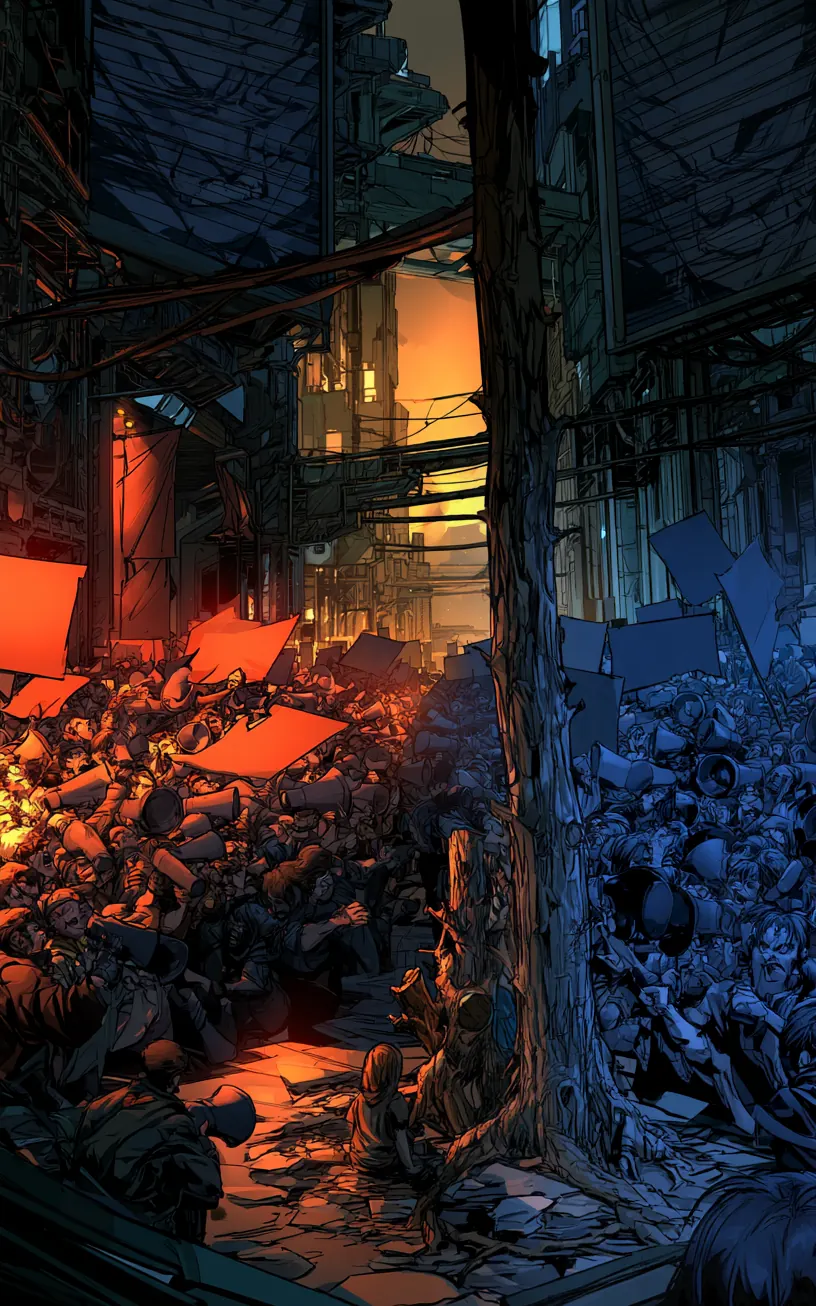
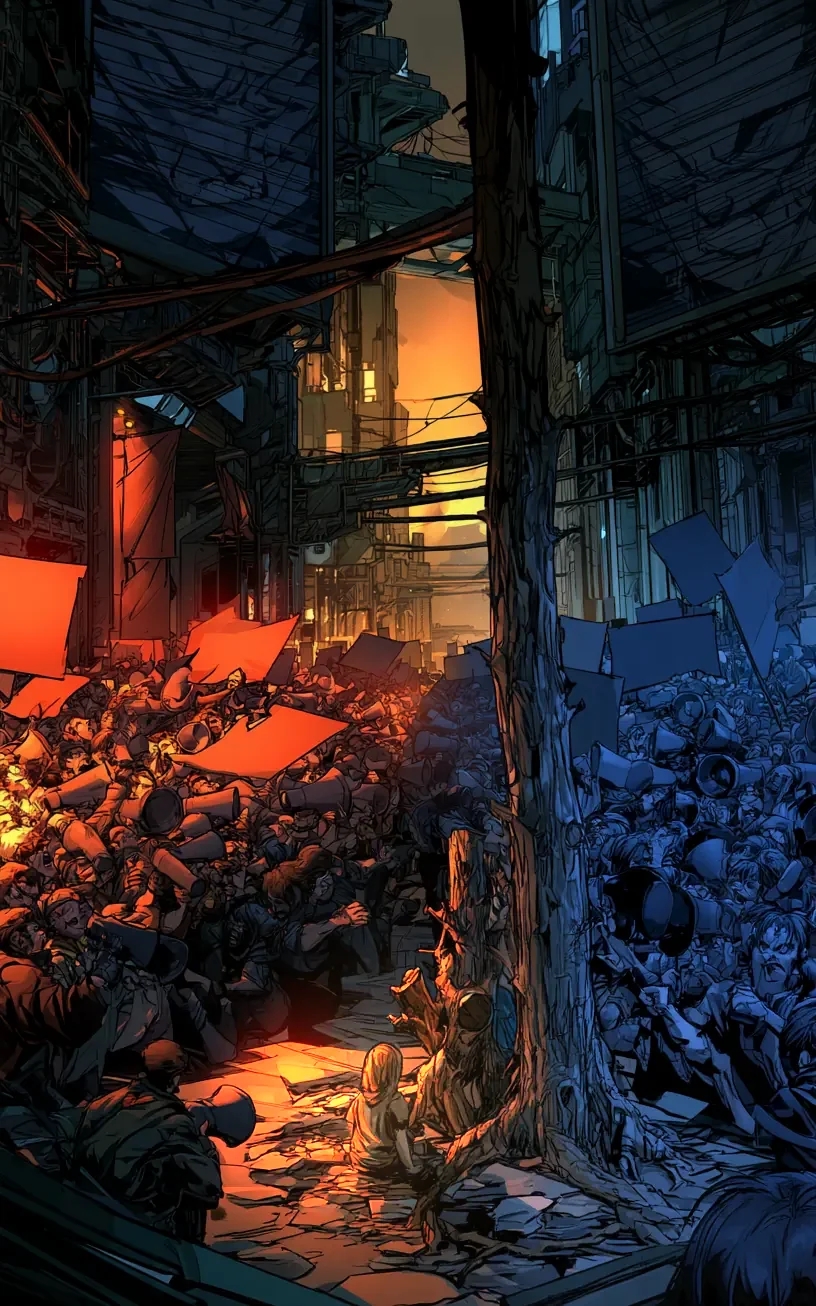
Intro : audit et réécriture (cohérence, lisibilité, profondeur)
- 12 plans au lieu de 11 : la Fonte et la Fracture sont séparées, les Accords
  rejoignent « On a oublié, encore ».
- Textes réécrits depuis la Bible et les Chroniques d'Ysé : dates alignées
  (Fonte 2030-2055, Montée 2057-2085), l'empreinte enfin définie, le Graveur,
  la Strate zéro nommée, plus de « Chaque trouvaille devient une carte ».
- Fils rouges : la ligne bleue sur les murs, les vingt secondes entre la météo
  et le sport, le regard, la porte.
- Une phrase à la fois, avec des points de progression ; texte en haut ou en
  bas selon le sujet de l'illustration ; voile adapté.
- Caméra : « monte » et « descend » étaient inversés ; le zoom se fait autour
  du sujet (foyer).
- 02-ailleurs : l'enfant au centre de l'image est éclairé.
- Typographie française (espaces insécables).

Claude-Session: https://claude.ai/code/session_01V7BnmMnJ7BohrTqfAHykg1

Changed region(s): [[0.2145, 0.7044, 0.674, 1.0], [0.4289, 0.6738, 0.4596, 0.7044]]

diff --git a/src/ui/intro.ts b/src/ui/intro.ts
@@ -1,7 +1,10 @@
-// L'intro du premier lancement : 10 plans, on avance au toucher (aucune avance automatique).
-// Chaque plan = une scène animée en code (SVG + CSS) et 2 ou 3 phrases courtes qui apparaissent une à une.
-// Les illustrations Midjourney passent sous le texte ; tant qu'un plan n'a pas d'image, sa scène SVG la remplace.
-// Aucun pays, personne ni conflit réel n'est nommé.
+// L'intro du premier lancement : 12 plans, on avance au toucher (aucune avance automatique).
+// Chaque plan = une illustration (ou une scène animée en code tant qu'elle manque) et 2 à 4 phrases,
+// affichées une à la fois, comme des sous-titres, pour laisser voir l'image.
+// Le texte se place en haut ou en bas selon l'endroit où se trouve le sujet de l'illustration.
+// Fils rouges : la ligne bleue peinte sur les murs (plans 1 et 10), les « vingt secondes entre la météo
+// et le sport » (plans 2 et 10), le regard (on a regardé ailleurs… regarde tout), la porte (plans 4 et 12).
+// Aucun pays, personne ni conflit réel n'est nommé. Source : Bible du lore et Chroniques d'Ysé.
 
 import { echap } from './vue';
 
@@ -9,12 +12,18 @@ export interface Plan {
   epoque: string;
   titre: string;
   lignes: string[];
+  /** années du compteur : il défile de la première à la seconde */
+  annees: [number, number];
   scene: (k: number) => string;
   /** illustrations Midjourney du plan (public/intro/<id>.webp), chacune visible à partir de la ligne « des » (1 = début) */
   fonds?: { id: string; des: number }[];
   ambiance: string;
   /** mouvement de caméra sur l'illustration */
   camera: 'approche' | 'monte' | 'descend' | 'gauche' | 'droite' | 'recule';
+  /** où poser le texte pour ne pas cacher le sujet de l'illustration (bas par défaut) */
+  texte?: 'haut' | 'bas';
+  /** position du sujet dans l'illustration, en % (x, y) : la caméra zoome autour de lui */
+  foyer?: [number, number];
 }
 
 const svg = (contenu: string, cls = '') =>
@@ -100,51 +109,63 @@ const strates = (k: number) => svg(`
   <g transform="translate(40 225)"><rect width="34" height="50" rx="8" fill="#2F4A2E" stroke="#8FAF6A" stroke-width="2"/><rect x="6" y="18" width="22" height="26" rx="5" fill="#8FAF6A" opacity=".55" class="pulse-lent"/></g>
   ${k >= 3 ? `<g class="arrivee" style="--i:0"><rect x="150" y="190" width="60" height="84" rx="7" fill="#1C1F26" stroke="#E8C25A" stroke-width="3"/><path d="M180 212 L192 232 L180 252 L168 232 Z" fill="#B9A6FF"/></g>` : ''}`);
 
-// ---------- Les 11 plans ----------
+// ---------- Les 12 plans ----------
 
 const f = (id: string, des = 1) => ({ id, des });
 
 export const PLANS: Plan[] = [
-  { epoque: 'Les années 2000', titre: 'On savait', ambiance: 'chaleur', camera: 'approche', fonds: [f('01-on-savait')], scene: villeChaleur, lignes: [
-    'Au début du siècle, un documentaire fait le tour du monde : les glaciers reculent, les étés brûlent.',
-    'On le sait, on s’inquiète. Il y a des marches, des sommets, des promesses.'] },
-  { epoque: 'Aujourd’hui', titre: 'On a regardé ailleurs', ambiance: 'colere', camera: 'recule', fonds: [f('02-ailleurs')], scene: ecrans, lignes: [
-    'Les prix montent, la colère aussi. L’extrême gauche et l’extrême droite se dressent l’une contre l’autre, chacune crie plus fort.',
-    'Des guerres s’embrasent. Le climat devient une ligne en bas de page.'] },
-  { epoque: 'Les années 2040 à 2057', titre: 'La nature a frappé', ambiance: 'maree', camera: 'gauche', fonds: [f('03-tempetes'), f('03-fracture', 3)], scene: nature, lignes: [
-    'Les tempêtes rendent des côtes entières inhabitables.',
-    'Des centaines de millions de personnes prennent la route. On meurt par millions.',
-    'En 2057, une partie de l’Antarctique glisse dans l’océan : la Fracture.'] },
-  { epoque: 'Après la Fracture', titre: 'Construire en hauteur', ambiance: 'aube-doree', camera: 'monte', fonds: [f('04-hauteur')], scene: tours, lignes: [
-    'La mer monte de plusieurs mètres. On bâtit vers le ciel, sur des piliers.',
-    'Les premières villes verticales sortent de l’eau. Elles grandiront pendant des décennies ; la plus grande s’appellera Vertiga.'] },
-  { epoque: '2062', titre: 'Le Puits Zéro', ambiance: 'profondeur', camera: 'descend', fonds: [f('05-puits-zero')], scene: puits, lignes: [
-    'Il faut aussi des abris. On creuse sous les Fondations.',
-    'Au fond du Puits Zéro : une salle que nul humain n’a construite.'] },
-  { epoque: '2062 – 2068', titre: 'Les empreintes', ambiance: 'cristal', camera: 'approche', fonds: [f('06-empreintes')], scene: empreintes, lignes: [
-    'Ses cristaux gardent des êtres plus anciens que nous : dragons, esprits, sans-nom.',
-    'Greffés sur un humain, ils éveillent des pouvoirs qu’aucune science n’explique.'] },
-  { epoque: '2071 – 2090', titre: 'L’Ascension', ambiance: 'or', camera: 'monte', fonds: [f('07-ascension')], scene: ascension, lignes: [
-    'En 2071, sept volontaires reçoivent en secret les premières empreintes. Ils sentent venir les tempêtes bien avant les machines.',
-    'Certains sauvent des villes entières, d’autres les prennent par la force. Mèche d’or, ombre qui n’est pas la leur : en vingt ans, les Résonants dirigent le monde.',
-    'Leurs familles s’installent dans les Hauts, sur des îles qui flottent.'] },
-  { epoque: '2088 – 2101', titre: 'La réponse', ambiance: 'atelier', camera: 'droite', fonds: [f('08-reponse')], scene: lignees, lignes: [
-    'Le peuple répond : la machine donne les Augmentés, la génétique les Génés.',
-    'En 2101, les Accords : les Hauts gouvernent, les districts élisent leurs directeurs.'] },
-  { epoque: '2121', titre: 'On a oublié, encore', ambiance: 'nuit', camera: 'recule', fonds: [f('09-oubli')], scene: oubli, lignes: [
-    'Les factions se disputent les empreintes. Les Fondations se fissurent.',
-    'La mer remonte, centimètre après centimètre. Presque personne ne regarde.'] },
-  { epoque: '2121', titre: 'Ce qui dort en dessous', ambiance: 'profondeur', camera: 'descend', fonds: [f('10-dessous')], scene: strates, lignes: [
-    'Sous chaque district, les chantiers des années 2060 ont laissé des Strates à l’abandon.',
-    'Cristaux d’empreinte, modules d’Augmentés, greffes de Génés : tout ce qu’on y trouve est unique.',
-    'Chaque trouvaille devient une carte. Qui en réunit assez devient fort.'] },
-  { epoque: '2121', titre: 'Toi', ambiance: 'foyer', camera: 'approche', fonds: [f('10-toi')], scene: toi, lignes: [
-    'Tu viens d’être élu à la tête d’un district : quelques piliers, une vieille tour.',
-    'Sous elle, une porte scellée depuis soixante ans. Trois personnes t’attendent.'] },
+  { epoque: 'Au début du siècle', titre: 'On savait', annees: [2006, 2019], ambiance: 'chaleur', camera: 'approche', fonds: [f('01-on-savait')], scene: villeChaleur, lignes: [
+    'Un soir, un documentaire fait le tour du monde : des glaciers photographiés à trente ans d’écart, qui ont reculé comme une marée.',
+    'Les savants ont les chiffres, les cartes, presque les dates. Des millions de jeunes marchent. Il y a des sommets, des promesses.',
+    'Quand l’eau monte pour la première fois, on peint une ligne bleue sur le mur, là où elle s’est arrêtée. On la montre aux invités.'] },
+  { epoque: 'Aujourd’hui', titre: 'On a regardé ailleurs', annees: [2020, 2026], ambiance: 'colere', camera: 'recule', texte: 'haut', foyer: [47, 84], fonds: [f('02-ailleurs')], scene: ecrans, lignes: [
+    'Les prix montent : le pain, le loyer, le chauffage. Quand on compte ses pièces, un glacier qu’on ne verra jamais pèse peu.',
+    'La colère cherche des visages. À l’extrême gauche comme à l’extrême droite, chacun crie plus fort que l’autre.',
+    'Des guerres reviennent remplir les écrans. Le climat glisse en fin de journal, vingt secondes entre la météo et le sport.',
+    'Entre les deux foules, un enfant. Personne ne le regarde : c’est lui qui vivra la suite.'] },
+  { epoque: 'Un quart de siècle', titre: 'La Fonte', annees: [2030, 2055], ambiance: 'maree', camera: 'gauche', fonds: [f('03-tempetes')], scene: (k) => nature(Math.min(k, 2)), lignes: [
+    'La mer ne monte que de trente centimètres. Mais un soir de tempête, c’est une digue qui cède, une rue qui devient rivière.',
+    'Les côtes se vident, rue après rue. Des centaines de millions de gens prennent la route avec ce qu’ils peuvent porter.',
+    'Il y aura des morts par millions. Les querelles qui remplissaient les écrans paraissent soudain minuscules. Elles l’étaient.'] },
+  { epoque: 'Un matin', titre: 'La Fracture', annees: [2057, 2057], ambiance: 'fracture', camera: 'descend', texte: 'haut', fonds: [f('03-fracture')], scene: () => nature(3), lignes: [
+    'À six heures, toutes les radios se taisent au milieu d’une phrase.',
+    'Au bout du monde, une partie de l’Antarctique se détache d’un bloc, comme une porte arrachée. Un marin la regarde glisser.',
+    'La mer montera de plusieurs mètres en quelques décennies. Depuis, on dit « avant » et « après la Fracture ».'] },
+  { epoque: 'Après la Fracture', titre: 'La Montée', annees: [2057, 2085], ambiance: 'aube-doree', camera: 'monte', fonds: [f('04-hauteur')], scene: tours, lignes: [
+    'Quand on ne peut plus fuir sur les côtés, il reste deux directions. On commence par monter.',
+    'Des tours de secours poussent sur des piliers plantés dans l’eau. On vit aux étages finis pendant qu’on coule ceux du dessus.',
+    'Des passerelles les relient. En une génération, les tours se touchent, se mêlent, et deviennent une ville : Vertiga.'] },
+  { epoque: 'Sous les piliers', titre: 'Le Puits Zéro', annees: [2062, 2062], ambiance: 'profondeur', camera: 'descend', texte: 'haut', fonds: [f('05-puits-zero')], scene: puits, lignes: [
+    'Puis on creuse : il faut des abris contre les tempêtes, et on ne peut les mettre qu’en bas, sous les piliers des Fondations.',
+    'Un soir, une foreuse débouche dans une salle aux murs lisses et courbes. Rien n’y est à la taille d’un humain.',
+    '« Ça sentait comme une pièce d’où quelqu’un vient de sortir », dira un ouvrier. On l’appelle la Strate zéro. Il y en a d’autres.'] },
+  { epoque: 'Six ans d’études', titre: 'Les empreintes', annees: [2062, 2068], ambiance: 'cristal', camera: 'approche', fonds: [f('06-empreintes')], scene: empreintes, lignes: [
+    'Dans les murs, des cristaux. Chacun garde l’empreinte d’un être : ses gestes, sa force, une part de ce qu’il était.',
+    'En 2068, on apprend à graver nos propres empreintes et à les greffer. Le geste d’un vieux soudeur survit dans d’autres mains.',
+    'Mais les cristaux des Strates sont déjà habités. Par des êtres plus anciens que nous : dragons, esprits, sans-nom.'] },
+  { epoque: 'Vingt ans', titre: 'L’Ascension', annees: [2071, 2090], ambiance: 'or', camera: 'monte', fonds: [f('07-ascension')], scene: ascension, lignes: [
+    'En 2071, sept volontaires reçoivent en secret des empreintes anciennes. Une mèche d’or leur pousse en une nuit. Leur ombre change.',
+    'Ils sentent les tempêtes venir avant les machines : ce sont les Résonants. Certains sauvent des villes, d’autres les prennent.',
+    'Leurs familles s’installent dans les Hauts, des îles qui flottent au-dessus des nuages. Personne en bas ne sait comment.'] },
+  { epoque: 'Pendant ce temps, en bas', titre: 'La Réponse', annees: [2088, 2100], ambiance: 'atelier', camera: 'droite', fonds: [f('08-reponse')], scene: lignees, lignes: [
+    'Les empreintes anciennes sont rares, et les Hauts gardent les meilleures. Alors le reste de l’humanité se refait autrement.',
+    'La machine donne les Augmentés. Leurs premiers implants à cœur de cristal servent à une chose : brouiller les Résonants.',
+    'La génétique donne les Génés, qui empruntent au vivant ce qui résiste à l’eau et au noir. Trois lignées, nées de la même peur.'] },
+  { epoque: 'Vingt ans de calme', titre: 'On a oublié, encore', annees: [2101, 2121], ambiance: 'nuit', camera: 'recule', texte: 'haut', fonds: [f('09-oubli')], scene: oubli, lignes: [
+    'En 2101, les Accords mettent fin à dix ans de grèves : les Hauts gouvernent, les districts élisent leurs directeurs.',
+    'Une question reste « à préciser » : à qui appartient ce qui dort sous les piliers ? Les factions se la disputent encore.',
+    'Pendant ce temps, les Fondations se fissurent. La mer remonte, et les lignes bleues des vieux murs passent sous la marée.',
+    'On se dispute ce qu’on a déterré, et on oublie ce qui monte. Vingt secondes entre la météo et le sport. Comme avant.'] },
+  { epoque: 'Vertiga', titre: 'Ce qui dort en dessous', annees: [2121, 2121], ambiance: 'profondeur', camera: 'descend', texte: 'haut', fonds: [f('10-dessous')], scene: strates, lignes: [
+    'Sous chaque district, il y a d’abord les abris murés des années 2060. Plus bas, les Strates, toujours plus anciennes.',
+    'On en remonte des cristaux d’empreinte, des pièces d’Augmentés, des greffes de Génés. Chacune peut armer quelqu’un.',
+    'Plus on descend, plus les trouvailles sont puissantes, et plus il est difficile d’en remonter.'] },
+  { epoque: 'Ce matin', titre: 'Toi', annees: [2121, 2121], ambiance: 'foyer', camera: 'approche', texte: 'haut', foyer: [62, 80], fonds: [f('10-toi')], scene: toi, lignes: [
+    'Hier, ton district t’a élu à sa tête : quelques piliers reliés par des passerelles, une Forge au ralenti, une vieille tour.',
+    'Ce matin, sous la tour, on a ouvert une porte scellée depuis soixante ans. Derrière, des dizaines d’empreintes, mêlées.',
+    'Au même moment, dans les Hauts, des Résonants se réveillent sans savoir qui ils sont. Tout Vertiga va vouloir cette porte.',
+    'Une coursière, un ancien des Fondations et une lectrice d’empreintes t’attendent en bas. Descends. Regarde tout.'] },
 ];
-
-/** Années affichées par le compteur de chaque plan (de, à) */
-const ANNEES: [number, number][] = [[2006, 2019], [2020, 2026], [2040, 2057], [2057, 2062], [2062, 2062], [2062, 2068], [2071, 2090], [2090, 2101], [2121, 2121], [2121, 2121], [2121, 2121]];
 
 /** Illustrations Midjourney déjà déposées dans public/intro/ */
 export const IMAGES_DISPONIBLES = new Set<string>(['01-on-savait', '02-ailleurs', '03-tempetes', '03-fracture', '04-hauteur', '05-puits-zero', '06-empreintes', '07-ascension', '08-reponse', '09-oubli', '10-dessous', '10-toi']);
@@ -162,12 +183,13 @@ export function fondActif(i: number, k: number): string | null {
 export const imagesPlan = (i: number): string[] =>
   (PLANS[i]?.fonds ?? []).filter((x) => IMAGES_DISPONIBLES.has(x.id)).map((x) => `./intro/${x.id}.webp`);
 
-function fond(id: string, camera: string, mouvement: boolean): string {
+function fond(id: string, camera: string, mouvement: boolean, foyer?: [number, number]): string {
   const src = `./intro/${id}.webp`;
   const media = mouvement && VIDEOS_DISPONIBLES.has(id)
     ? `<video poster="${src}" autoplay muted loop playsinline preload="auto"><source src="./intro/${id}.webm" type="video/webm"><source src="./intro/${id}.mp4" type="video/mp4"></video>`
     : `<img src="${src}" alt="" decoding="async">`;
-  return `<div class="intro-fond cam-${camera}" data-fond="${id}" aria-hidden="true">${media}</div>`;
+  const style = foyer ? ` style="--fx:${foyer[0]}%;--fy:${foyer[1]}%"` : '';
+  return `<div class="intro-fond cam-${camera}" data-fond="${id}"${style} aria-hidden="true">${media}</div>`;
 }
 
 // ---------- Particules par ambiance (CSS seul, position et rythme déterministes) ----------
@@ -176,7 +198,11 @@ const PARTICULES: Record<string, { type: string; n: number }> = {
   chaleur: { type: 'poussiere', n: 18 }, colere: { type: 'cendre', n: 22 }, maree: { type: 'pluie', n: 46 },
   'aube-doree': { type: 'poussiere', n: 16 }, profondeur: { type: 'gravats', n: 20 }, cristal: { type: 'motes', n: 24 },
   or: { type: 'motes', n: 20 }, atelier: { type: 'etincelle', n: 18 }, nuit: { type: 'neige-lumiere', n: 16 }, foyer: { type: 'poussiere', n: 14 },
+  fracture: { type: 'neige-lumiere', n: 20 },
 };
+
+/** Typographie française : espace insécable avant « : » et « » », fine insécable avant ; ? !, insécable après « */
+const fr = (t: string) => t.replace(/ ([:»])/g, '\u00A0$1').replace(/ ([;?!])/g, '\u202F$1').replace(/« /g, '«\u00A0');
 
 export function particules(ambiance: string): string {
   const def = PARTICULES[ambiance];
@@ -192,25 +218,28 @@ export function particules(ambiance: string): string {
   return `<div class="intro-particules p-${def.type}" aria-hidden="true">${span}</div>`;
 }
 
-/** i = plan, k = nombre de lignes affichées, texteCache = mode « admirer l'image » */
+/** i = plan, k = nombre de lignes déjà lues (la k-ième est affichée seule), texteCache = mode « admirer l'image » */
 export function htmlIntro(i: number, k: number, mouvement = true, texteCache = false): string {
   const p = PLANS[i]!;
   const dernier = i === PLANS.length - 1;
-  const complet = k >= p.lignes.length;
-  const actif = fondActif(i, k);
-  const [de, a] = ANNEES[i]!;
-  const progression = PLANS.map((_, n) => `<span class="${n < i ? 'fait' : n === i ? 'ici' : ''}"></span>`).join('');
-  return `<section class="intro amb-${p.ambiance}${actif ? ' illustree' : ''}${texteCache ? ' admirer' : ''}" data-plan="${i}" aria-label="Introduction" data-action="intro-suivant">`
-    + (actif ? fond(actif, p.camera, mouvement) : '')
-    + `<div class="intro-scene" aria-hidden="true">${p.scene(k)}</div>`
+  const n = Math.min(Math.max(1, k), p.lignes.length);
+  const complet = n >= p.lignes.length;
+  const actif = fondActif(i, n);
+  const [de, a] = p.annees;
+  const progression = PLANS.map((_, m) => `<span class="${m < i ? 'fait' : m === i ? 'ici' : ''}"></span>`).join('');
+  // une seule phrase à la fois, comme un sous-titre : l'image reste visible
+  const pas = p.lignes.length > 1 ? `<div class="intro-pas" aria-hidden="true">${p.lignes.map((_, m) => `<span class="${m < n ? 'fait' : ''}"></span>`).join('')}</div>` : '';
+  return `<section class="intro amb-${p.ambiance}${actif ? ' illustree' : ''}${texteCache ? ' admirer' : ''} texte-${p.texte ?? 'bas'}" data-plan="${i}" data-k="${n}" aria-label="Introduction" data-action="intro-suivant">`
+    + (actif ? fond(actif, p.camera, mouvement, p.foyer) : '')
+    + `<div class="intro-scene" aria-hidden="true">${p.scene(n)}</div>`
     + (mouvement ? particules(p.ambiance) : '')
     + `<div class="intro-voile" aria-hidden="true"></div>`
     + `<div class="intro-haut"><div class="intro-prog" role="img" aria-label="Plan ${i + 1} sur ${PLANS.length}">${progression}</div>`
     + `<div class="intro-outils"><button type="button" class="btn-sec rond" data-action="intro-oeil" aria-pressed="${texteCache}" aria-label="${texteCache ? 'Afficher le texte' : 'Masquer le texte pour voir l’image'}">${texteCache ? OEIL_BARRE : OEIL}</button>`
     + `<button type="button" class="btn-sec" data-action="intro-passer">Passer</button></div></div>`
-    + `<div class="intro-corps${k === 1 ? ' entree' : ''}"><div class="intro-date"><span class="epoque">${echap(p.epoque)}</span>${de === a && p.epoque.includes(String(de)) ? '' : compteur(de, a)}</div><h2>${echap(p.titre)}</h2>`
-    + p.lignes.slice(0, Math.max(1, k)).map((l, n) => `<p class="ligne${n === k - 1 ? ' neuve' : ' lue'}">${echap(l)}</p>`).join('')
-    + `</div><div class="intro-bas">${i > 0 || k > 1 ? '<button type="button" class="btn-sec" data-action="intro-precedent">Retour</button>' : '<span></span>'}`
+    + `<div class="intro-corps${n === 1 ? ' entree' : ''}"><div class="intro-date"><span class="epoque">${echap(fr(p.epoque))}</span>${p.epoque.includes(String(a)) ? '' : compteur(de, a)}</div><h2>${echap(fr(p.titre))}</h2>`
+    + `<p class="ligne neuve" aria-live="polite">${echap(fr(p.lignes[n - 1]!))}</p>${pas}`
+    + `</div><div class="intro-bas">${i > 0 || n > 1 ? '<button type="button" class="btn-sec" data-action="intro-precedent">Retour</button>' : '<span></span>'}`
     + (i === 0 ? `<span class="intro-indice">Touche l’écran pour continuer</span>` : '<span></span>')
     + `<button type="button" class="prim" data-action="${dernier && complet ? 'intro-passer' : 'intro-suivant'}">${dernier && complet ? 'Descendre vers la porte' : complet ? 'Suite' : 'Continuer'}</button></div></section>`;
 }

diff --git a/src/ui/scenes.css b/src/ui/scenes.css
@@ -109,9 +109,17 @@
 .intro-prog span.fait{background:rgba(246,241,230,.75)}
 .intro-prog span.ici{background:#F6F1E6;box-shadow:0 0 6px rgba(246,241,230,.7)}
 
-/* Voile de lecture : sombre seulement derrière le texte, l'image reste visible en haut */
+/* Voile de lecture : sombre seulement là où se pose le texte, le reste de l'illustration respire.
+   Texte en bas par défaut ; en haut (.texte-haut) quand le sujet de l'image est en bas. */
 .intro-voile{position:absolute;inset:0;z-index:-1;pointer-events:none;border-radius:inherit;
-  background:linear-gradient(180deg,rgba(8,10,14,.55) 0%,rgba(8,10,14,0) 16%,rgba(8,10,14,0) 46%,rgba(8,10,14,.72) 66%,rgba(8,10,14,.93) 100%);transition:opacity .5s ease}
+  background:linear-gradient(180deg,rgba(8,10,14,.5) 0%,rgba(8,10,14,0) 13%,rgba(8,10,14,0) 50%,rgba(8,10,14,.68) 67%,rgba(8,10,14,.92) 100%);transition:opacity .5s ease}
+.intro.texte-haut .intro-voile{background:linear-gradient(180deg,rgba(8,10,14,.92) 0%,rgba(8,10,14,.8) 28%,rgba(8,10,14,.38) 42%,rgba(8,10,14,0) 54%,rgba(8,10,14,0) 84%,rgba(8,10,14,.5) 100%)}
+.intro.texte-haut .intro-corps{margin-top:4px;margin-bottom:auto}
+.intro.texte-bas .ligne{min-height:4.5em}
+/* Une phrase à la fois : de petits points disent combien il en reste dans le plan */
+.intro-pas{display:flex;gap:6px;margin-top:2px}
+.intro-pas span{width:6px;height:6px;border-radius:50%;background:rgba(246,241,230,.3);transition:background .3s ease}
+.intro-pas span.fait{background:#E8C25A;box-shadow:0 0 6px rgba(232,194,90,.6)}
 .intro-corps{gap:10px;transition:opacity .45s ease,transform .45s ease}
 .intro-date{display:flex;align-items:baseline;gap:12px}
 .intro .compteur{font-family:var(--mono);font-size:13px;font-weight:600;letter-spacing:.1em;color:#E8C25A;font-variant-numeric:tabular-nums}
@@ -138,16 +146,18 @@
 .intro-fond.sortant{z-index:-2;animation:fondu-out 1.1s ease-in forwards}
 @keyframes fondu-out{to{opacity:0}}
 .intro-fond img,.intro-fond video{will-change:transform;animation-duration:22s;animation-timing-function:cubic-bezier(.25,.1,.25,1);animation-fill-mode:forwards}
-.cam-approche img{animation-name:cam-approche;transform-origin:50% 42%}
-.cam-recule img{animation-name:cam-recule;transform-origin:50% 50%}
+/* --fx/--fy : le sujet de l'illustration (plan.foyer) ; le zoom se fait autour de lui pour ne jamais le sortir du cadre */
+.cam-approche img{animation-name:cam-approche;transform-origin:var(--fx,50%) var(--fy,42%)}
+.cam-recule img{animation-name:cam-recule;transform-origin:var(--fx,50%) var(--fy,50%)}
 .cam-monte img{animation-name:cam-monte}
 .cam-descend img{animation-name:cam-descend}
 .cam-gauche img{animation-name:cam-gauche}
 .cam-droite img{animation-name:cam-droite}
 @keyframes cam-approche{from{transform:scale(1.04)}to{transform:scale(1.2)}}
 @keyframes cam-recule{from{transform:scale(1.22)}to{transform:scale(1.04)}}
-@keyframes cam-monte{from{transform:scale(1.16) translateY(6%)}to{transform:scale(1.16) translateY(-5%)}}
-@keyframes cam-descend{from{transform:scale(1.16) translateY(-6%)}to{transform:scale(1.16) translateY(5%)}}
+/* monte : le regard glisse vers le haut de l'image et finit sur le sommet ; descend : il finit sur le bas */
+@keyframes cam-monte{from{transform:scale(1.16) translateY(-6%)}to{transform:scale(1.16) translateY(5%)}}
+@keyframes cam-descend{from{transform:scale(1.16) translateY(6%)}to{transform:scale(1.16) translateY(-5%)}}
 @keyframes cam-gauche{from{transform:scale(1.18) translateX(6%)}to{transform:scale(1.18) translateX(-6%)}}
 @keyframes cam-droite{from{transform:scale(1.18) translateX(-6%)}to{transform:scale(1.18) translateX(6%)}}
 .intro-scene.scene-entre{animation:fondu-in 1s ease-out}

diff --git a/src/main.ts b/src/main.ts
@@ -179,6 +179,7 @@ function majIntro(h: string): boolean {
   }
   ancien.className = neuf.className;
   ancien.dataset.plan = neuf.dataset.plan ?? '';
+  ancien.dataset.k = neuf.dataset.k ?? '';
   return true;
 }
 
